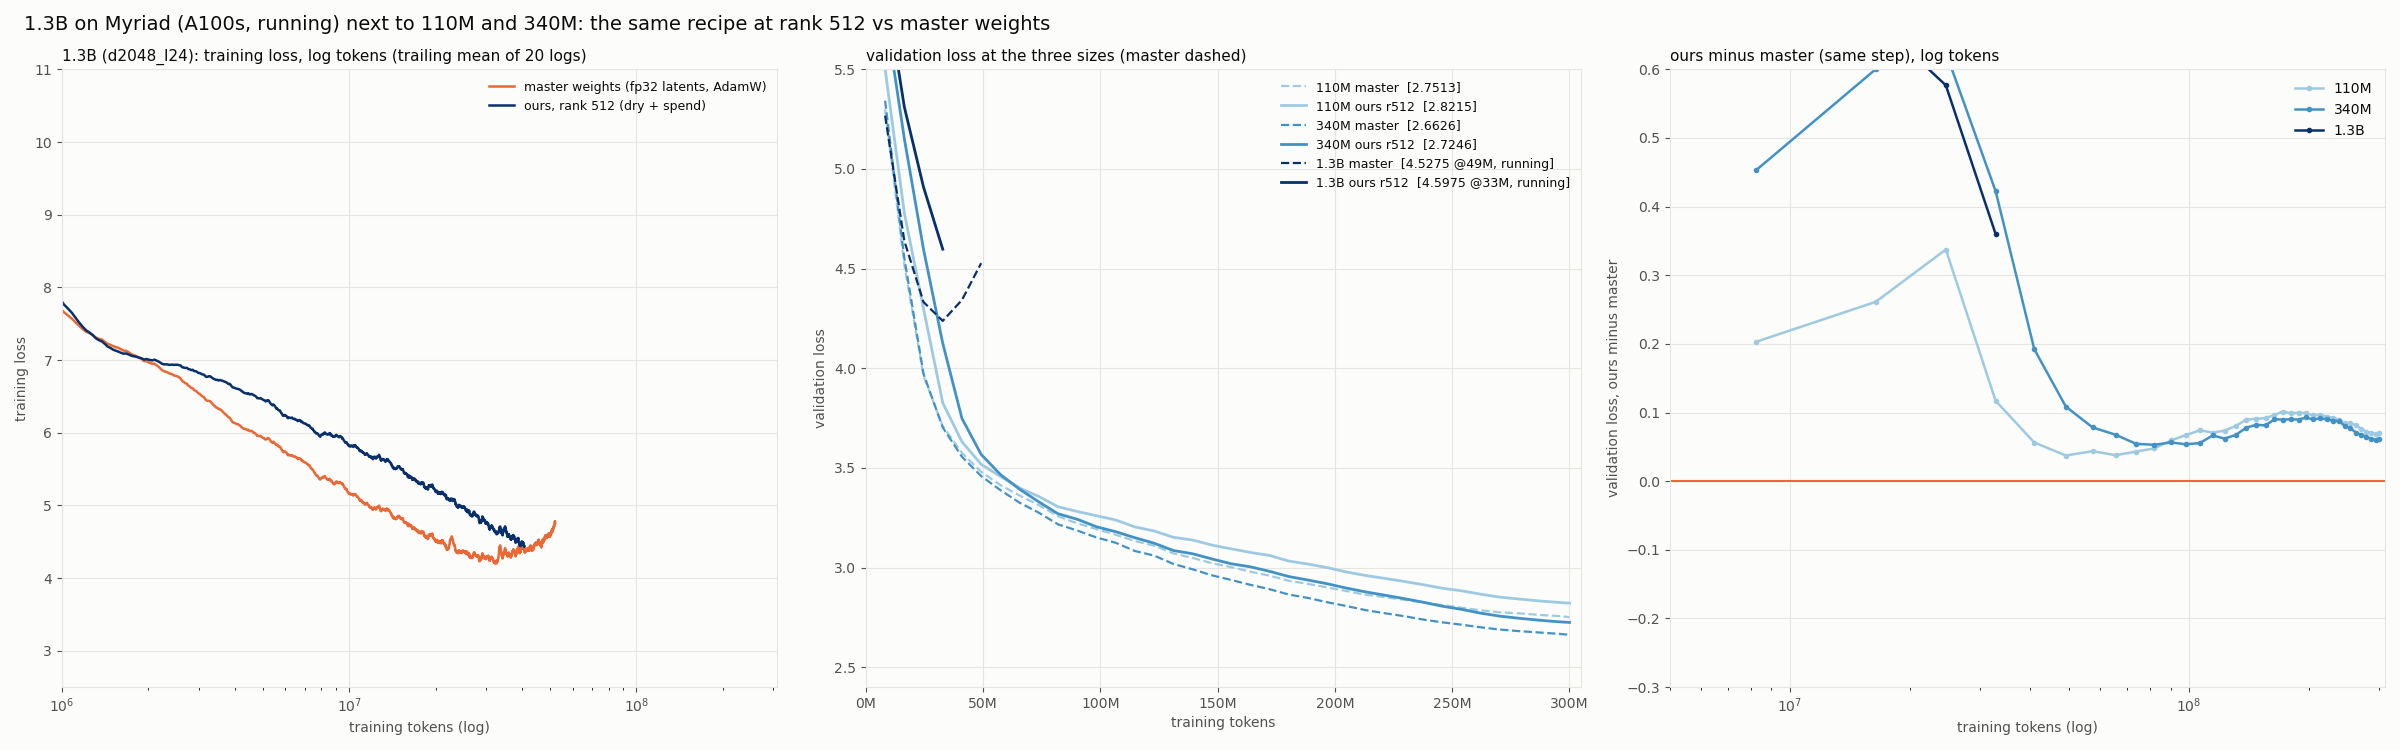
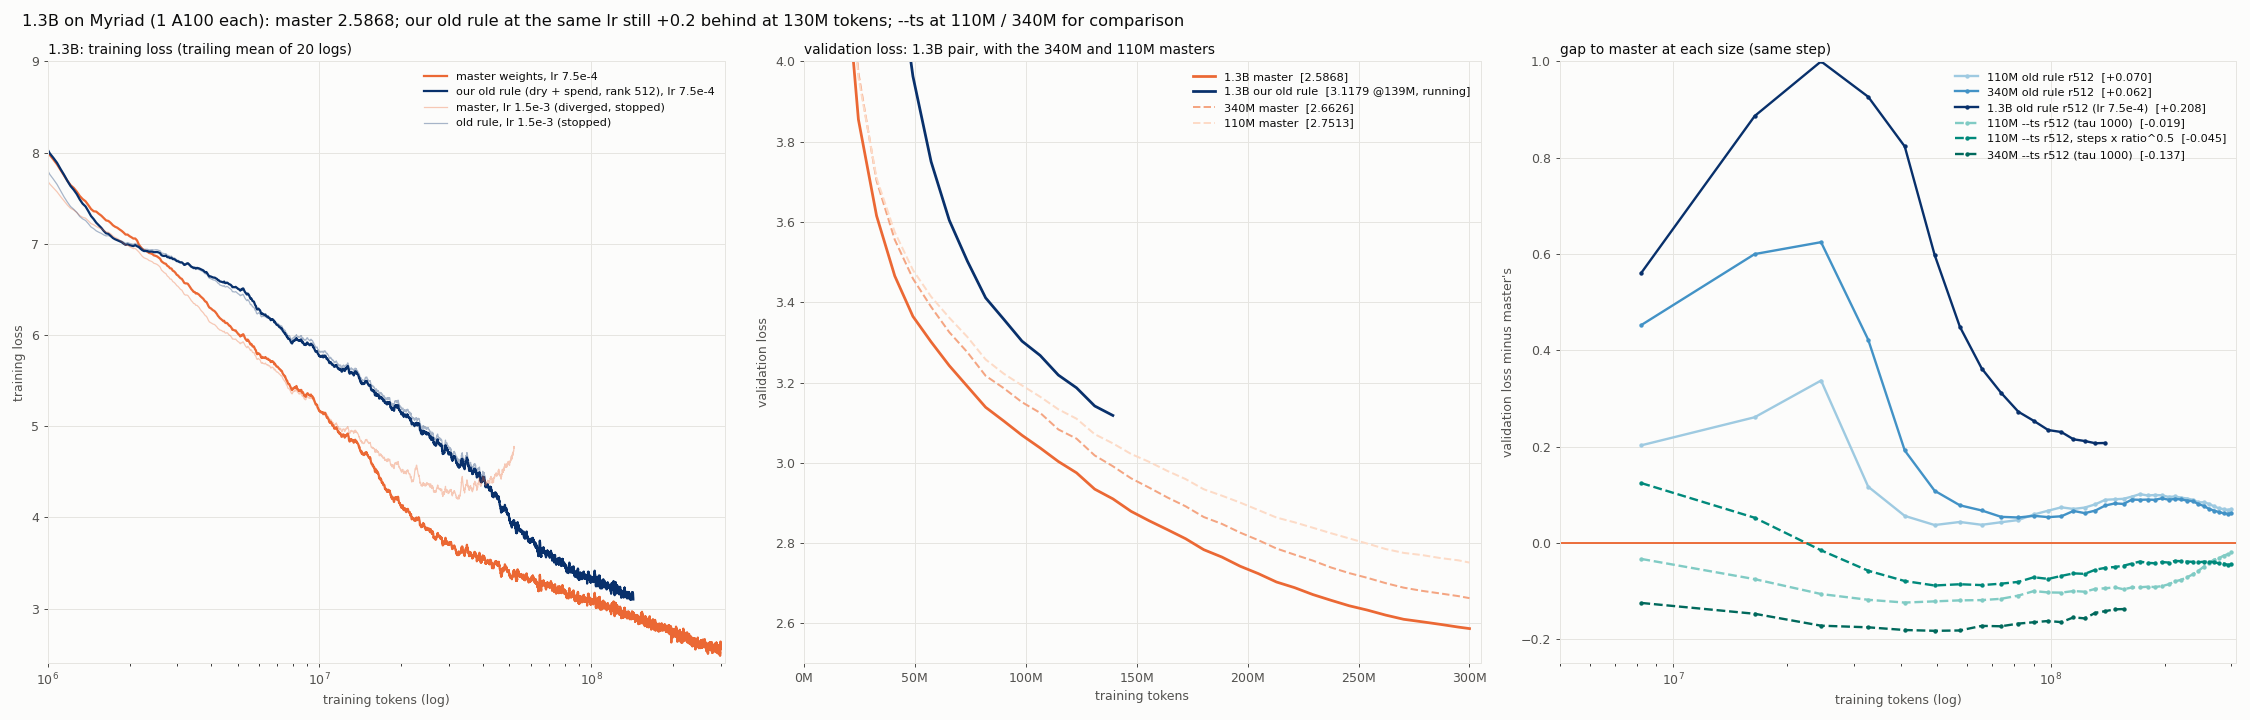
1.3B figure (matched lr pair, gap to master by size); 1.3B --ts job submitted

diff --git a/scripts/plots/plot_1b.py b/scripts/plots/plot_1b.py
@@ -1,0 +1,88 @@
+"""1.3B (d2048_l24) on Myriad: master and our old rule (dry friction + spend, rank 512) at peak lr 7.5e-4, with the
+stopped lr 1.5e-3 pair faded; and the gap to master at each size (110M / 340M / 1.3B) for the old rule and for --ts.
+
+  python -m scripts.plots.plot_1b      -> docs/figures/runs_1b.png
+"""
+import json, os, re
+import numpy as np
+import matplotlib
+matplotlib.use("Agg")
+import matplotlib.pyplot as plt
+
+SURFACE, INK, INK2, GRID = "#fcfcfb", "#0b0b0b", "#52514e", "#e6e5e1"
+TPS = 32768
+fmt = matplotlib.ticker.FuncFormatter(lambda x, _: f"{x / 1e6:g}M")
+
+
+def load(r):
+    """(train steps, trailing mean of 20 logged losses, {step: val}) from the first existing file"""
+    for f in (f"checkpoints/{r}_myr/metrics.jsonl", f"checkpoints/{r}_lab/metrics.jsonl", f"checkpoints/{r}/metrics.jsonl"):
+        if os.path.exists(f): break
+    else:
+        f = f"checkpoints/{r}_lab/night.txt"
+        if not os.path.exists(f): return None
+        va = {int(m.group(1)): float(m.group(2)) for m in re.finditer(r'"step": (\d+), "val_loss": ([\d.]+)', open(f).read())}
+        return np.array([]), np.array([]), va
+    tr, va = {}, {}
+    for l in open(f):
+        x = json.loads(l)
+        if "val_loss" in x: va[x["step"]] = x["val_loss"]
+        elif "loss" in x: tr[x["step"]] = x["loss"]
+    s = np.array(sorted(tr)); l = np.array([tr[k] for k in s])
+    cs = np.concatenate([[0.0], np.cumsum(l)]); i = np.arange(1, len(l) + 1); lo = np.maximum(i - 20, 0)
+    return s, (cs[i] - cs[lo]) / (i - lo), va
+
+
+def style(ax, title, ylab, logx=True):
+    ax.set_facecolor(SURFACE); ax.grid(True, color=GRID, lw=0.8)
+    for sp in ax.spines.values(): sp.set_color(GRID)
+    ax.tick_params(colors=INK2); ax.xaxis.set_major_formatter(fmt)
+    if logx: ax.set_xscale("log")
+    ax.set_title(title, color=INK, fontsize=11, loc="left"); ax.set_ylabel(ylab, color=INK2)
+    ax.set_xlabel("training tokens" + (" (log)" if logx else ""), color=INK2)
+
+
+def vline(ax, d, *a, **k):
+    s = np.array(sorted(d)); ax.plot((s + 1) * TPS, [d[i] for i in s], *a, **k)
+
+
+def tag(d):
+    s = max(d); return f"{d[s]:.4f}" + ("" if s >= 9150 else f" @{(s + 1) * TPS / 1e6:.0f}M, running")
+
+
+def gap(o, m):
+    k = np.array(sorted(s for s in o if s in m and s >= 250)); return (k + 1) * TPS, np.array([o[s] - m[s] for s in k])
+
+
+M1, O1 = load("x1b_master_lr75"), load("x1b_dryspend_r512_lr75")
+M1h, O1h = load("x1b_master"), load("x1b_dryspend_r512_s0")
+fig, axs = plt.subplots(1, 3, figsize=(25, 8), facecolor=SURFACE)
+a = axs[0]; style(a, "1.3B: training loss (trailing mean of 20 logs)", "training loss")
+a.plot((M1[0] + 1) * TPS, M1[1], color="#eb6834", lw=1.8, label="master weights, lr 7.5e-4")
+a.plot((O1[0] + 1) * TPS, O1[1], color="#08306b", lw=1.8, label="our old rule (dry + spend, rank 512), lr 7.5e-4")
+a.plot((M1h[0] + 1) * TPS, M1h[1], color="#eb6834", lw=1, alpha=0.35, label="master, lr 1.5e-3 (diverged, stopped)")
+a.plot((O1h[0] + 1) * TPS, O1h[1], color="#08306b", lw=1, alpha=0.35, label="old rule, lr 1.5e-3 (stopped)")
+a.set_xlim(1e6, 3.1e8); a.set_ylim(2.4, 9); a.legend(frameon=False, fontsize=9, labelcolor=INK)
+b = axs[1]; style(b, "validation loss: 1.3B pair, with the 340M and 110M masters", "validation loss", logx=False)
+vline(b, M1[2], "-", color="#eb6834", lw=2.2, label=f"1.3B master  [{tag(M1[2])}]")
+vline(b, O1[2], "-", color="#08306b", lw=2.2, label=f"1.3B our old rule  [{tag(O1[2])}]")
+for r, lab, c in (("big_master", "340M master", "#f4a582"), ("master_tracked", "110M master", "#fddbc7")):
+    d = load(r); vline(b, d[2], "--", color=c, lw=1.6, label=f"{lab}  [{tag(d[2])}]")
+b.set_xlim(0, 3.05e8); b.set_ylim(2.5, 4.0); b.legend(frameon=False, fontsize=9, labelcolor=INK)
+c = axs[2]; style(c, "gap to master at each size (same step)", "validation loss minus master's")
+c.axhline(0, color="#eb6834", lw=1.5)
+PAIRS = [("110M old rule r512", "master_tracked", "gvsharp_dryspend_r512_s0", "#9ecae1", "-"),
+         ("340M old rule r512", "big_master", "big_dryspend_r512_s0", "#4292c6", "-"),
+         ("1.3B old rule r512 (lr 7.5e-4)", "x1b_master_lr75", "x1b_dryspend_r512_lr75", "#08306b", "-"),
+         ("110M --ts r512 (tau 1000)", "master_tracked", "ts16rs512tau1000_s0", "#80cbc4", "--"),
+         ("110M --ts r512, steps x ratio^0.5", "master_tracked", "ts16rs512tau1000an05_s0", "#00897b", "--"),
+         ("340M --ts r512 (tau 1000)", "big_master", "big_ts16rs512tau1000_s0", "#00695c", "--")]
+for lab, m, o, col, ls in PAIRS:
+    dm, do = load(m), load(o)
+    if not dm or not do: continue
+    x, y = gap(do[2], dm[2]); c.plot(x, y, ls, color=col, lw=1.9, marker="o", ms=2.5, label=f"{lab}  [{y[-1]:+.3f}]")
+c.set_xlim(5e6, 3.1e8); c.set_ylim(-0.25, 1.0); c.legend(frameon=False, fontsize=9, labelcolor=INK)
+fig.suptitle("1.3B on Myriad (1 A100 each): master 2.5868; our old rule at the same lr still +0.2 behind at 130M tokens; "
+             "--ts at 110M / 340M for comparison", color=INK, fontsize=13, x=0.01, ha="left")
+fig.tight_layout(); fig.savefig("docs/figures/runs_1b.png", dpi=90, facecolor=SURFACE)
+print("wrote docs/figures/runs_1b.png")

diff --git a/docs/figures/README.md b/docs/figures/README.md
@@ -10,7 +10,7 @@ noted. Validation loss is in nats per token; perplexity = e^loss. Formulas behin
 | `night_oct2.png` | night 1-2 Oct: master from scratch with one ingredient removed; the two-timescale rule (`--ts`) and its rank sweep; 340M; all as validation loss minus master's | `python -m scripts.plots.plot_night_oct2 MYRIAD_DUMP` |
 | `selection_runs.png` | flip selection (flat / inv / cheap / cosine blend) at rank 512 and cheap at every rank, minus the rule | `python -m scripts.plots.plot_oct1` |
 | `memory_undo_runs.png` | memory warm-up and undo with the long-memory recipe | `python -m scripts.plots.plot_oct1` |
-| `runs_1b.png` | the 1.3B pair on Myriad next to 110M and 340M (the 1.5e-3 master in it diverged) | `python -m scripts.plots.plot_oct1` |
+| `runs_1b.png` | 1.3B on Myriad at lr 7.5e-4: master (2.5868) and our old rule, training and validation loss; gap to master at 110M / 340M / 1.3B for the old rule and `--ts` | `python -m scripts.plots.plot_1b` |
 | `best_runs.png` | the best run at each step of progress (now led by the two-timescale `--ts` runs; master + our float extras joins as a reference once it has run), with the fp32 and master-weights references; whole run (log tokens) and 100M-300M with final loss and perplexity | `python -m scripts.plots.plot_best` |
 | `scale.png` | the recipe at 110M and 340M: the 110M rank sweep (32-1024, int8, refresh), 340M runs against 110M with master at both sizes, final loss against rank | `python -m scripts.plots.plot_scale` |
 | `runs_340m.png` | the 340M model: master and our recipe at rank 64 / 128 / 512 / full, validation loss and gap to master over training | `python -m scripts.plots.plot_340m` |

diff --git a/docs/QUEUE.md b/docs/QUEUE.md
@@ -6,7 +6,7 @@ by the user with `bash ~/ternary-LLM/scripts/remote/start.sh SCRIPT`), **shovele
 PCs, at most two in use), **laptop**. Token counts are training tokens (32,768 per step at batch 16). From
 2026-09-27 on, new runs are without look-ahead.
 
-Last updated: 2026-10-02 13:10
+Last updated: 2026-10-02 13:15
 
 Run names: `rc` = learned row/column scales, `s0` = from scratch (step 0), `b131` = branch from `nola_lab` at 131M,
 `gate` = sign gate (flip only where this batch's gradient agrees with the momentum), `vnorm` = factored Adam step
@@ -24,7 +24,8 @@ Run names: `rc` = learned row/column scales, `s0` = from scratch (step 0), `b131
 | skate | `ts16r128rs512tau1000_s0` | accumulator 128 + short 512 | ~14:00 |
 | albacore / elver | `ts16rs512la1000an05_s0` / `ts16r256rs256la1000an05_s0` | `--ts` ranks 512 / 256 with both late-phase fixes: leak and steps scaled by (lr ratio)^0.5. The fixed-leak runs end at a third of master's slope (0.010 vs 0.029 per 1000 steps), the scaled leak 0.020, steps x ratio^0.5 0.034 | ~18:00 |
 | 4090 | `big_ts16rs512tau1000_s0` | `--ts` 512 / 512 at 340M: -0.138 vs 340M master at 4500 | ~18:00 |
-| Myriad 36472 | `x1b_dryspend_r512_lr75` | 1.3B old rule at lr 7.5e-4 (1.3B master 2.5868) | Sat |
+| Myriad 36472 | `x1b_dryspend_r512_lr75` | 1.3B old rule at lr 7.5e-4 (1.3B master 2.5868): +0.208 at step 4000, 9.2 s/step | Sat ~01:30 |
+| Myriad 40267 (queued) | `x1b_ts512_la1000an05` | 1.3B `--ts`, ranks 512, tau 1000, leak and steps x (lr ratio)^0.5, lr 7.5e-4 (`run_1b_ts.sh`) | ~1-1.5 days after start |
 
 Free lab121: albacore, elver, hake, inanga, koi (another user's Ray worker), plaice, quillback, rudd.
 

diff --git a/docs/RUNS.md b/docs/RUNS.md
@@ -2711,3 +2711,11 @@ leak) 0.034. The cause is the step annealing: steps shrink to 0.1x, and with a f
 theta, so flips nearly stop. The scaled leak removes that floor (slope doubles); milder step annealing keeps the slope at
 master's. Combined (leak and steps both x ratio^0.5, so the accumulator's equilibrium level stays constant):
 `ts16rs512la1000an05_s0`, `ts16r256rs256la1000an05_s0` (ranks 512 / 256; full rank left out: it is no memory saving).
+
+### 2 Oct 13:15: 1.3B
+
+`x1b_master_lr75` finished **2.5868** (340M master 2.6626, 110M 2.7513). Our old rule at the same lr
+(`x1b_dryspend_r512_lr75`, step 4340, 9.2 s/step) trails it by +0.93 / +0.36 / +0.235 / +0.207 at 1000 / 2000 / 3000 /
+4000, worse than at 340M (+0.09 at the same point). Its training curve is the same at lr 1.5e-3 and 7.5e-4, so the
+early lag at 1.3B is the rule, not the tail lr (figure `runs_1b.png`). Kept running as the old-rule baseline;
+`x1b_ts512_la1000an05` (`--ts`, ranks 512, leak and steps x ratio^0.5, lr 7.5e-4) submitted (Myriad 40267).

diff --git a/docs/RUN_INDEX.md b/docs/RUN_INDEX.md
@@ -223,6 +223,7 @@ ones: [QUEUE.md](QUEUE.md).
 | `ts16full_tau1000_seed2` / `ts16rs512tau1000an05_seed2` (dory / flounder) | seed 2 of the two headline runs | running | - |
 | `ts16fullla1000_seed2` / `ts16rs512la1000_seed2` (goldeye / barbel) | seed 2 of the annealed-leak runs | running | - |
 | `ts16rs512la1000an05_s0` / `ts16r256rs256la1000an05_s0` (albacore / elver) | ranks 512 / 256, leak and steps scaled by (lr ratio)^0.5 | running | - |
+| `x1b_ts512_la1000an05` (Myriad, queued) | `--ts` at 1.3B, ranks 512, leak and steps x ratio^0.5, lr 7.5e-4 (1.3B master 2.5868; old rule +0.208 at 4000) | queued | - |
 | `mx_extras_s0` / `mx_extras_seed2` (tope / lamprey) | **fair reference**: master + the same float extras (row/col scales, additive rank-16 adapter, qk temperature) | running | - |
 | `tsnoflip_s0` | control: theta 1e9 (no flips; float extras only) | 300M | 3.1725 (+0.421) |
 
